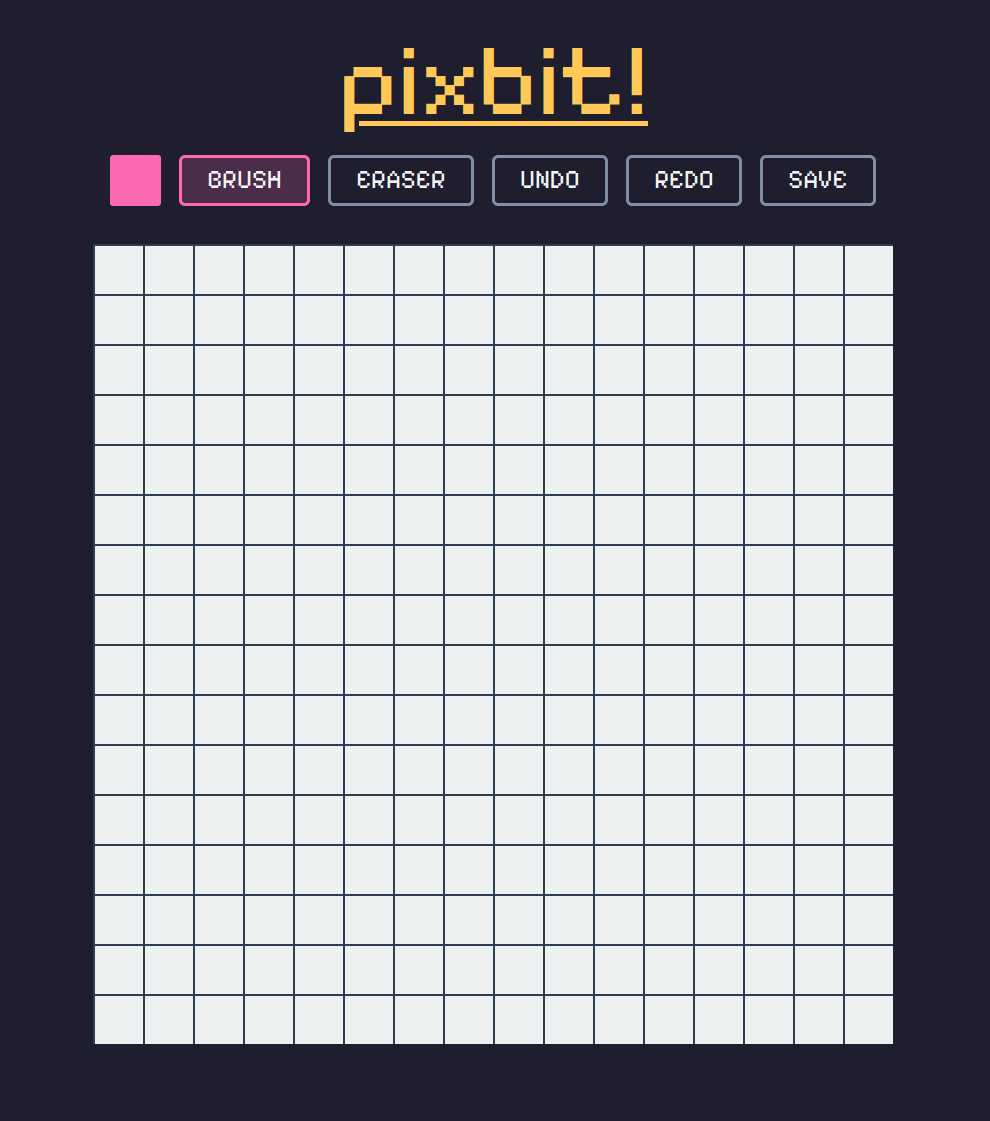
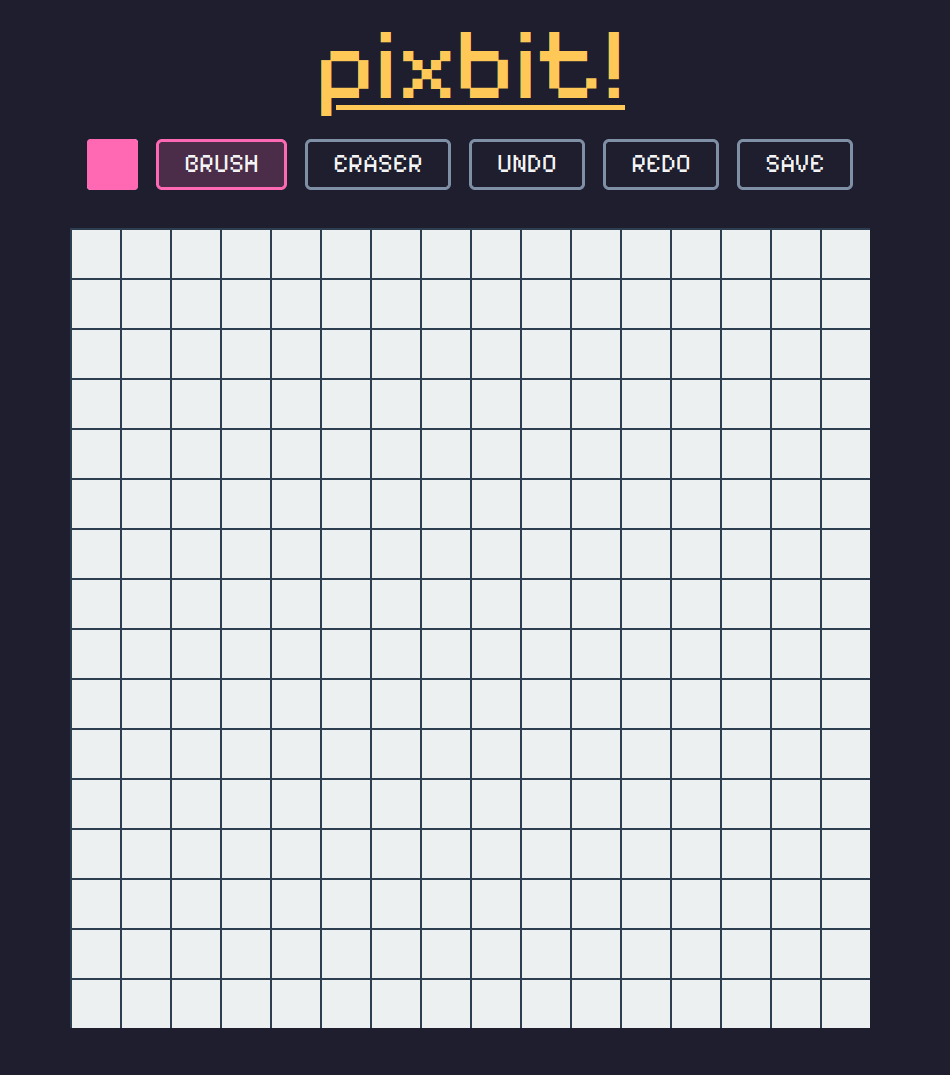
added responsive design and some minor changes

Changed region(s): [[0.0611, 0.2149, 0.9158, 0.9823], [0.0916, 0.0307, 0.9158, 0.1842]]

diff --git a/index.html b/index.html
@@ -10,15 +10,15 @@
     <link rel="preconnect" href="https://fonts.gstatic.com" crossorigin>
     <link href="https://fonts.googleapis.com/css2?family=Pixelify+Sans&display=swap" rel="stylesheet">
 
-    <title>pixbit!</title>
+    <title>pixbit landing!</title>
 </head>
 <body class="font-['Pixelify_Sans'] bg-[#1e1e2f] text-[#f4f4f4]">
 
     <!-- NAVBAR -->
     <header id="navbar" class="fixed top-0 left-0 w-full bg-[#2c3e50] px-6 py-4 shadow-md">
         <div class="flex items-center justify-between">
-            <h1 class="text-5xl font-bold text-[#ffc857] hover:underline"><a href="https://pixbit-nine.vercel.app/">pixbit!</a></h1>
-            <nav class="text-2xl space-x-20">
+            <h1 class="text-3xl md:text-5xl font-bold text-[#ffc857] hover:underline"><a href="https://pixbit-nine.vercel.app/">pixbit!</a></h1>
+            <nav class="hidden md:flex md:text-2xl md:space-x-12">
                 <a href="#features" class="hover:underline">features</a>
                 <a href="#roadmap" class="hover:underline">roadmap</a>
                 <a href="#faq" class="hover:underline">FAQ</a>
@@ -30,63 +30,63 @@
     <!-- HERO SECTION -->
     <section id="hero" class="py-20 mt-10">
         <div class="mx-auto text-center">
-            <h1 class="text-7xl font-bold text-[#ffc857] mb-4">draw pixels. create art.</h1>
-            <p class="text-2xl mb-8">a beautiful, neo-retro pixel art editor in your browser.</p>
-            <button class="text-xl px-6 py-3 rounded-2xl border-3 border-[#7f8fa6] bg-[rgba(67,93,119,0.2)] hover:border-[#9fb0c8] hover:bg-[rgba(67,93,119,0.35)] transition">
-                <a href="https://pixbit-nine.vercel.app/">open editor</a>
+            <h1 class="text-4xl sm:text-5xl md:text-7xl font-bold text-[#ffc857] mb-4">draw pixels. create art.</h1>
+            <p class="text-lg sm:text-xl md:text-2xl mb-8">a beautiful, neo-retro pixel art editor in your browser.</p>
+            <button class="text-xl sm:text-2xl md:text-3xl px-6 py-3 rounded-2xl border-3 border-[#ff69b4] bg-pink-500/20 hover:border-[#ff85c1] hover:bg-pink-500/35 transition">
+                <a href="https://pixbit-nine.vercel.app/" target="_blank">open editor</a>
             </button>
             <div class="mt-10 flex flex-row justify-center items-center gap-6 px-4">
-                <img src="image-1.png" alt="editor screenshot 1" class="w-180 h-200 rounded-2xl border-3 border-[#7f8fa6] hover:border-[#ffc857] transition">
-                <img src="image-2.png" alt="editor screenshot 2" class="w-180 h-200 rounded-2xl border-3 border-[#7f8fa6] hover:border-[#ffc857] transition">
+                <img src="image-1.png" alt="editor screenshot 1" class="w-full max-w-xs sm:max-w-sm md:max-w-md lg:max-w-2xl rounded-2xl border-3 border-[#7f8fa6] hover:border-[#9fb0c8] transition">
+                <img src="image-2.png" alt="editor screenshot 2" class="w-full max-w-xs sm:max-w-sm md:max-w-md lg:max-w-2xl rounded-2xl border-3 border-[#7f8fa6] hover:border-[#9fb0c8] transition">
             </div>
         </div>
     </section>
 
     <!-- FEATURES -->
     <section id="features" class="py-20">
-        <h1 class="text-6xl font-bold text-[#ffc857] mb-10 text-center">FEATURES</h1>
+        <h1 class="text-4xl sm:text-5xl md:text-7xl font-bold text-[#ffc857] mb-10 text-center">FEATURES</h1>
         <div class="mx-auto px-6">
-            <div class="grid grid-cols-2 gap-8 mx-auto max-w-7xl">
-                <div class="bg-[#2c3e50] p-6 rounded-2xl shadow-md border border-[#7f8fa6]">
+            <div class="grid grid-cols-1 md:grid-cols-2 gap-8 mx-auto max-w-7xl">
+                <div class="bg-[#2c3e50] p-6 rounded-2xl shadow-md border-2 border-[#7f8fa6]">
                     <h2 class="text-3xl font-bold mb-2">1. BRUSH</h2>
                     <p class="text-xl ml-5">
-                        the basic drawing tool, duh :p<br>
-                        you can also select the color to draw with!<br>
-                        one pixel at a time.
+                        -> the basic drawing tool, duh :p<br>
+                        -> you can also select the color to draw with!<br>
+                        -> one pixel at a time.
                     </p>
                 </div>
-                <div class="bg-[#2c3e50] p-6 rounded-2xl shadow-md border border-[#7f8fa6]">
+                <div class="bg-[#2c3e50] p-6 rounded-2xl shadow-md border-2 border-[#7f8fa6]">
                     <h2 class="text-3xl font-semibold mb-2">2. ERASER</h2>
                     <p class="text-xl ml-5">
-                        delete pixels with this awesome totally unique feature never seen before (kidding)<br>
-                        no, you can't select color. dummy<br>
-                        also one pixel at a time.
+                        -> delete pixels with this awesome totally unique feature never seen before (kidding)<br>
+                        -> no, you can't select color. dummy<br>
+                        -> also one pixel at a time.
                     </p>
                 </div>
-                <div class="bg-[#2c3e50] p-6 rounded-2xl shadow-md border border-[#7f8fa6]">
+                <div class="bg-[#2c3e50] p-6 rounded-2xl shadow-md border-2 border-[#7f8fa6]">
                     <h2 class="text-3xl font-semibold mb-2">3. UNDO</h2>
                     <p class="text-xl ml-5">
-                        accidental brush stroke? undo!<br>
-                        ctrl+z or click the undo button!
+                        -> accidental brush stroke? undo!<br>
+                        -> ctrl+z or click the undo button!
                     </p>
                 </div>
-                <div class="bg-[#2c3e50] p-6 rounded-2xl shadow-md border border-[#7f8fa6]">
+                <div class="bg-[#2c3e50] p-6 rounded-2xl shadow-md border-2 border-[#7f8fa6]">
                     <h2 class="text-3xl font-semibold mb-2">4. REDO</h2>
                     <p class="text-xl ml-5">
-                        accidental undo? redo!<br>
-                        ctrl+y or click the redo button
+                        -> accidental undo? redo!<br>
+                        -> ctrl+y or click the redo button
                     </p>
                 </div>
-                <div class="bg-[#2c3e50] p-6 rounded-2xl shadow-md border border-[#7f8fa6]">
+                <div class="bg-[#2c3e50] p-6 rounded-2xl shadow-md border-2 border-[#7f8fa6]">
                     <h2 class="text-3xl font-semibold mb-2">5. SAVE TRANSPARENT</h2>
                     <p class="text-xl ml-5">
-                        save your cool pixel art drawing without a background!
+                        -> save your cool pixel art drawing without a background!
                     </p>
                 </div>
-                <div class="bg-[#2c3e50] p-6 rounded-2xl shadow-md border border-[#7f8fa6]">
+                <div class="bg-[#2c3e50] p-6 rounded-2xl shadow-md border-2 border-[#7f8fa6]">
                     <h2 class="text-3xl font-semibold mb-2">6. SAVE OPAQUE</h2>
                     <p class="text-xl ml-5">
-                        same thing as transparent but with a white background.
+                        -> same thing as saving transparent but it's not transparent (opaque, dummy - white background).
                     </p>
                 </div>
             </div>
@@ -95,10 +95,10 @@
 
     <!-- ROADMAP -->
     <section id="roadmap" class="py-20">
-        <h1 class="text-6xl font-bold text-[#ffc857] mb-10 text-center">ROADMAP</h1>
+        <h1 class="text-4xl sm:text-5xl md:text-7xl font-bold text-[#ffc857] mb-10 text-center">ROADMAP</h1>
         <div class="mx-auto px-6">
             <div class="grid grid-cols-1 gap-8 mx-auto max-w-3xl">
-                <div class="bg-[#2c3e50] p-6 rounded-2xl shadow-md border border-[#7f8fa6]">
+                <div class="bg-[#2c3e50] p-6 rounded-2xl shadow-md border-2 border-[#7f8fa6]">
                     <h2 class="text-3xl font-bold mb-2">1. BASIC FEATURES</h2>
                     <p class="text-xl ml-5">
                         -> brush.<br>
@@ -107,15 +107,15 @@
                         -> exporting.
                     </p>
                 </div>
-                <div class="bg-[#2c3e50] p-6 rounded-2xl shadow-md border border-[#ffc857]">
-                    <h2 class="text-3xl font-bold mb-2"><span class="text-[#ffc857]">CURRENTLY WORKING ON:</span> 2. ART GALLERY</h2>
+                <div class="bg-[#2c3e50] p-6 rounded-2xl shadow-md border-2 border-[#7f8fa6]">
+                    <h2 class="text-3xl font-bold mb-2"><span class="text-[#9fb0c8]">CURRENTLY WORKING ON:</span> 2. ART GALLERY</h2>
                     <p class="text-xl ml-5">
                         -> gallery of saved artwork.<br>
                         -> grid resizing.<br>
                         -> creating new blank works.
                     </p>
                 </div>
-                <div class="bg-[#2c3e50] p-6 rounded-2xl shadow-md border border-[#7f8fa6]">
+                <div class="bg-[#2c3e50] p-6 rounded-2xl shadow-md border-2 border-[#7f8fa6]">
                     <h2 class="text-3xl font-bold mb-2">3. TBD</h2>
                     <p class="text-xl ml-5">
                         -> N/A.
@@ -127,24 +127,24 @@
 
     <!-- FAQ -->
     <section id="faq" class="py-20">
-        <h1 class="text-6xl font-bold text-[#ffc857] mb-10 text-center">FAQ</h1>
+        <h1 class="text-4xl sm:text-5xl md:text-7xl font-bold text-[#ffc857] mb-10 text-center">FAQ</h1>
         <div class="mx-auto px-6">
             <div class="grid grid-cols-1 gap-8 mx-auto max-w-3xl">
-                <div class="bg-[#2c3e50] p-6 rounded-2xl shadow-md border border-[#7f8fa6]">
+                <div class="bg-[#2c3e50] p-6 rounded-2xl shadow-md border-2 border-[#7f8fa6]">
                     <h2 class="text-3xl font-bold mb-2">what is this?</h2>
                     <p class="text-xl ml-5">a browser based pixel art editor. simple, fast, and free.</p>
                 </div>
-                <div class="bg-[#2c3e50] p-6 rounded-2xl shadow-md border border-[#7f8fa6]">
+                <div class="bg-[#2c3e50] p-6 rounded-2xl shadow-md border-2 border-[#7f8fa6]">
                     <h2 class="text-3xl font-bold mb-2">do i need to sign up or pay?</h2>
                     <p class="text-xl ml-5">nope. just open the link and start drawing. completely free, always.</p>
                 </div>
-                <div class="bg-[#2c3e50] p-6 rounded-2xl shadow-md border border-[#7f8fa6]">
+                <div class="bg-[#2c3e50] p-6 rounded-2xl shadow-md border-2 border-[#7f8fa6]">
                     <h2 class="text-3xl font-bold mb-2">can i save my work?</h2>
                     <p class="text-xl ml-5">you can export as PNG. future versions will include saving to a gallery.</p>
                 </div>
-                <div class="bg-[#2c3e50] p-6 rounded-2xl shadow-md border border-[#7f8fa6]">
+                <div class="bg-[#2c3e50] p-6 rounded-2xl shadow-md border-2 border-[#7f8fa6]">
                     <h2 class="text-3xl font-bold mb-2">is this open source?</h2>
-                    <p class="text-xl ml-5">yes. the repo is <a href="https://github.com/maahibatra/pixbit">here.</a> (leads to the editor's repo - the landing page's repo is separate, found in navbar and header.</p>
+                    <p class="text-xl ml-5">yes. the repo is <a href="https://github.com/maahibatra/pixbit" target="_blank">here.</a> (leads to the editor's repo - the landing page's repo is separate, found in navbar and header.</p>
                 </div>
             </div>
         </div>
@@ -152,12 +152,12 @@
 
     <!-- FOOTER -->
     <footer id="footer" class="py-7 bg-[#2c3e50] w-full">
-        <div class="flex items-center justify-between">
-            <p class="text-3xl">&copy; 2025 pixbit landing page. built with <3</p>
-            <p class="text-2xl space-x-20">
-                <a href="https://pixbit-nine.vercel.app/" class="font-bold text-[#ffc857] hover:underline">pixbit editor!</a>
-                <a href="https://github.com/maahibatra/pixbit" class="hover:underline">pixbit's repo.</a>
-                <a href="https://github.com/maahibatra/pixbit-landing" class="hover:underline">landing page repo.</a>
+        <div class="flex md:items-center md:justify-between flex-col md:flex-row gap-5 px-6">
+            <p class="text-xl sm:text-2xl md:text-3xl text-center md:text-left">&copy; 2025 pixbit landing page. built with <3</p>
+            <p class="text-lg sm:text-xl md:text-2xl flex flex-col md:flex-row text-center gap-1">
+                <a href="https://pixbit-nine.vercel.app/" class="font-bold text-[#ffc857] hover:underline" target="_blank">pixbit editor!</a>
+                <a href="https://github.com/maahibatra/pixbit" class="hover:underline" target="_blank">pixbit's repo.</a>
+                <a href="https://github.com/maahibatra/pixbit-landing" class="hover:underline" target="_blank">landing page repo.</a>
             </p>
         </div>
     </footer>
